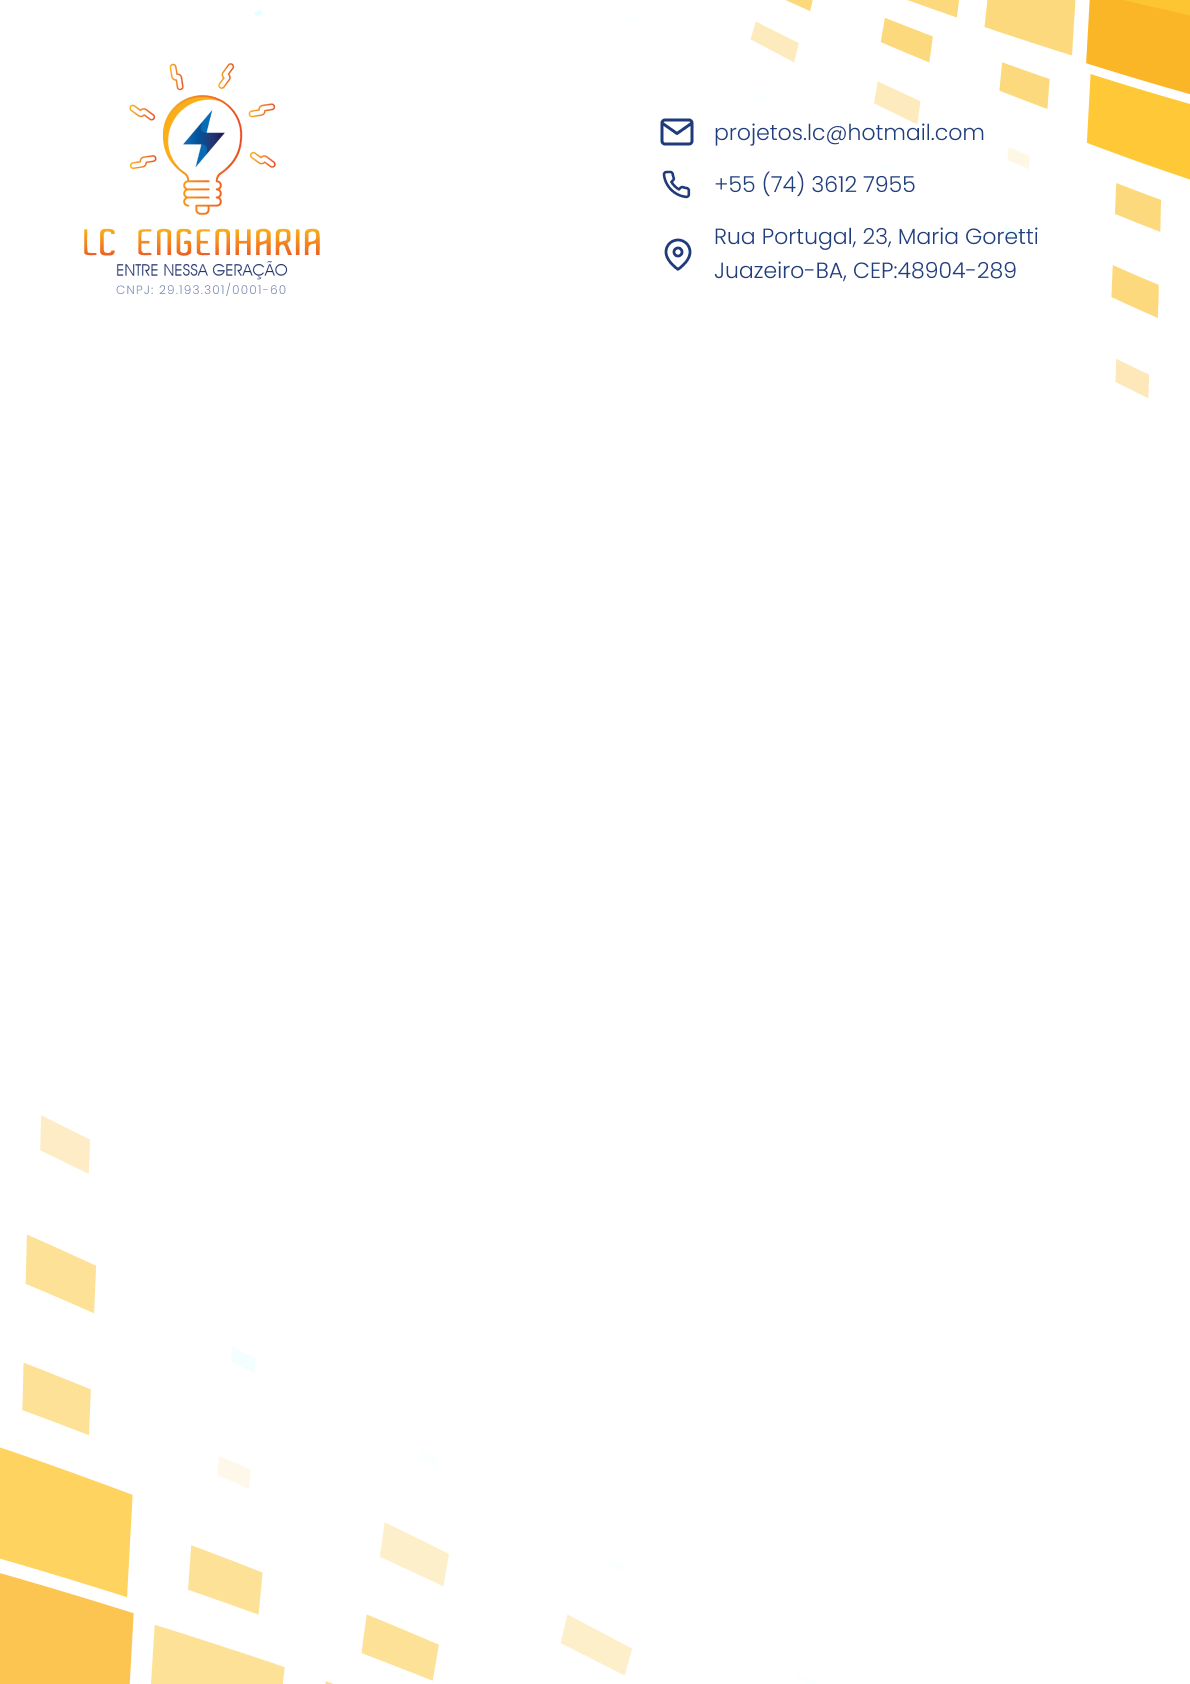
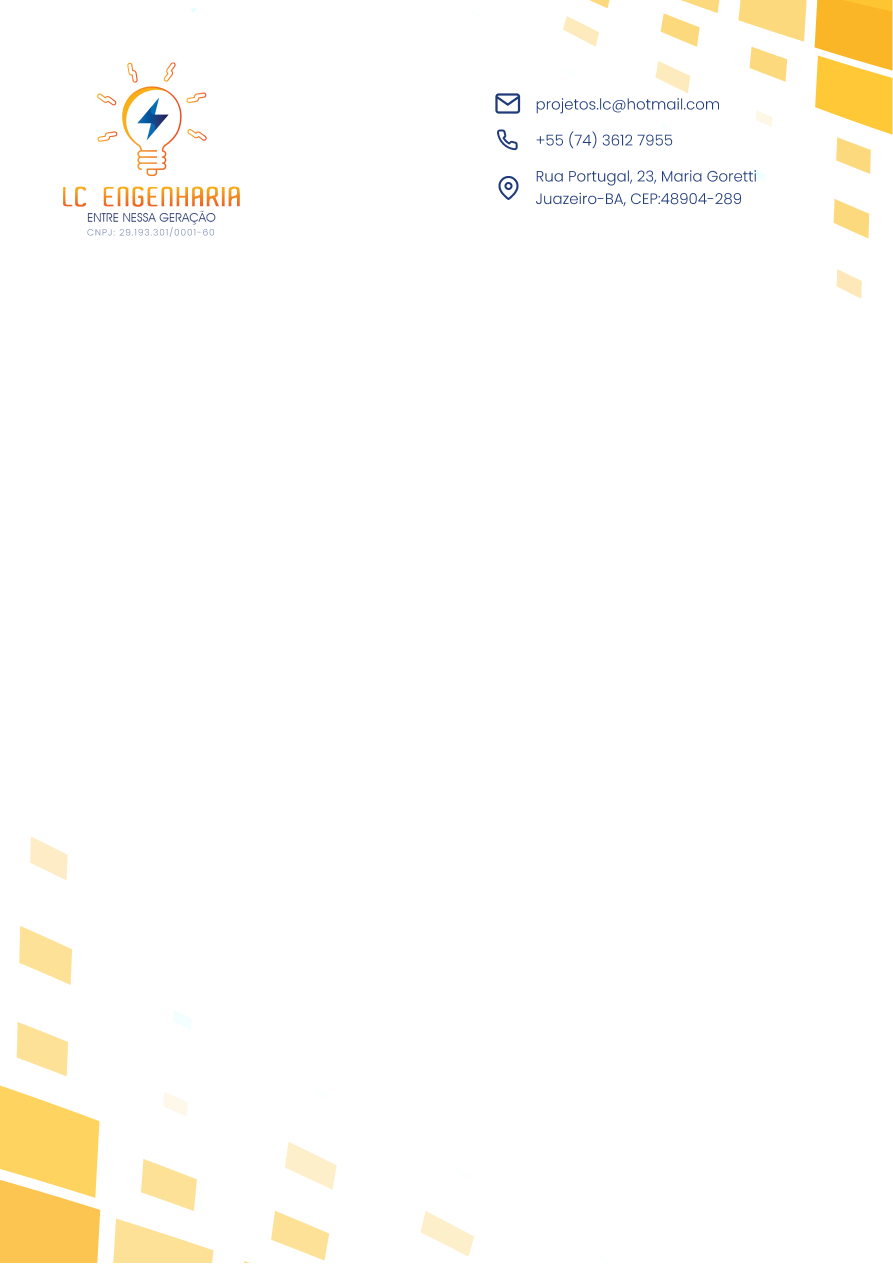
atualização caminho img pdf

Changed region(s): [[0.5442, 0.0617, 0.8768, 0.1851], [0.0605, 0.0309, 0.2721, 0.1851], [0.9978, 0.0, 1.0, 0.1234]]

diff --git a/pdfs/proposta.php b/pdfs/proposta.php
@@ -16,7 +16,7 @@ require __DIR__ . '/../vendor/autoload.php';
       top: -130px;
       right: 0px;
       height: 275px;
-      background-image: url('http://localhost/novoLCEngenharia/pdfs/papel_timprado.jpg');
+      background-image: url('<?= dirname(__DIR__, 1) ?>/pdfs/papel_timprado.jpg');
       background-repeat: no-repeat;
       background-size: cover;
       z-index: -1;
@@ -29,7 +29,7 @@ require __DIR__ . '/../vendor/autoload.php';
       right: 0px;
       height: 310px;
       opacity: 0.6;
-      background-image: url('http://localhost/novoLCEngenharia/pdfs/papel_timprado.png');
+      background-image: url('<?= dirname(__DIR__, 1) ?>/pdfs/papel_timprado.png');
       background-repeat: no-repeat;
       background-size: cover;
       background-position: bottom center;
@@ -70,7 +70,7 @@ require __DIR__ . '/../vendor/autoload.php';
     }
   </style>
 
-<body style="background-image: url(http://localhost/novoLCEngenharia/assets/images/bgpdf/logo_vert.png); background-repeat: no-repeat;background-position:right bottom; background-size: auto;">
+<body style="background-image: url(<?= dirname(__DIR__, 1) ?>/assets/images/bgpdf/logo_vert.png); background-repeat: no-repeat;background-position:right bottom; background-size: auto;">
   <div id="header">
 
   </div>
@@ -149,7 +149,7 @@ require __DIR__ . '/../vendor/autoload.php';
         </h2>
         <p>
           <center>
-            <img src="http://localhost/novoLCEngenharia/pdfs/fornecedores.png" alt="" style="margin-top: -25px;">
+            <img src="<?= dirname(__DIR__, 1) ?>/pdfs/fornecedores.png" alt="" style="margin-top: -25px;">
           </center>
         </p>
         <div class="">
@@ -157,7 +157,7 @@ require __DIR__ . '/../vendor/autoload.php';
             FUNCIONAMENTO E VANTAGENS
           </h2>
           <center>
-            <img src="http://localhost/novoLCEngenharia/pdfs/funcionamento.png" alt="" style="align-items: center;">
+            <img src="<?= dirname(__DIR__, 1) ?>/pdfs/funcionamento.png" alt="" style="align-items: center;">
           </center>
           <p>
 

diff --git a/pdfs/teste.php b/pdfs/teste.php
@@ -17,7 +17,7 @@ ob_start();
 require __DIR__ . '/proposta.php';
 $dompdf->loadHtml(ob_get_clean());
 
-//$dompdf->setPaper('A4', 'portrait');
+$dompdf->setPaper('A4', 'portrait');
 $dompdf->render();
 
 header('Content-Type: application/pdf');
